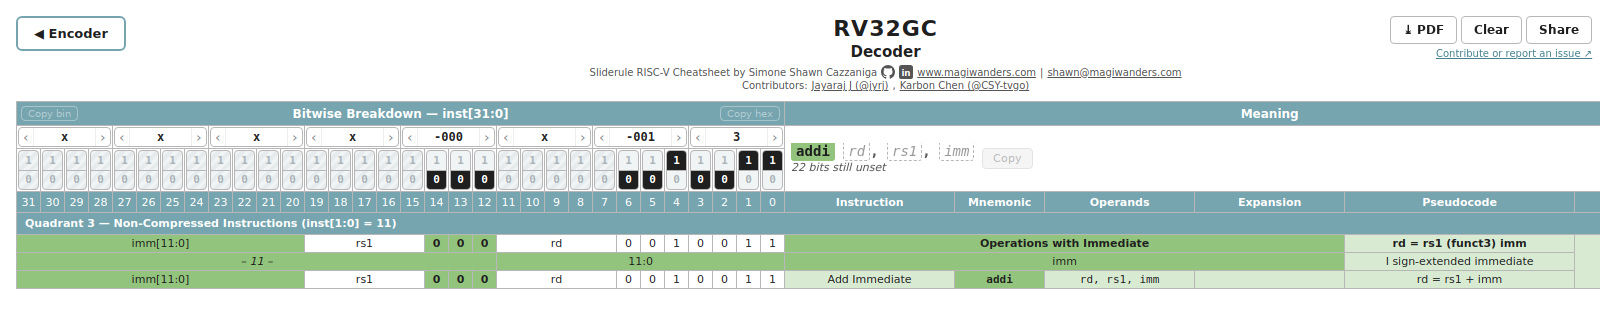
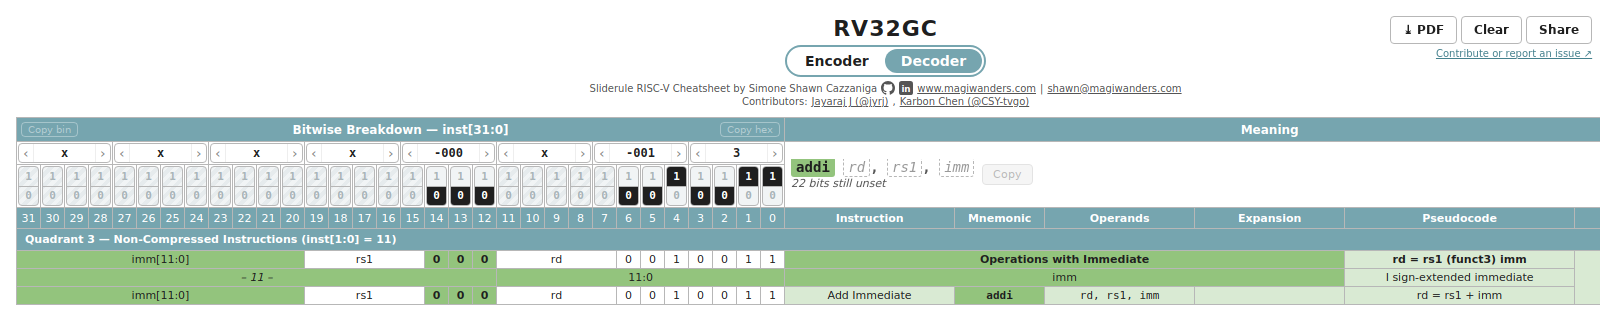
Encoder / Decoder pill under the title instead of corner buttons

diff --git a/public/styles.css b/public/styles.css
@@ -80,7 +80,6 @@ table.sliderule {
 
 .title-main { text-align: center; }
 .title-isa { font-size: 22px; font-weight: bold; letter-spacing: 1px; }
-.title-name { font-size: 15px; font-weight: bold; margin-top: 2px; }
 .title-credits { display: flex; align-items: center; justify-content: center; gap: 4px; font-size: 10px; font-weight: normal; color: #555; margin-top: 4px; }
 .title-credits a { color: inherit; }
 .title-contributors { margin-top: 1px; }
@@ -96,28 +95,30 @@ table.sliderule {
 .title-corner { display: flex; }
 .title-corner.right { justify-content: flex-end; text-align: right; }
 
-.mode-button {
-  position: sticky;
-  left: 8px;
-  right: 8px;
-  padding: 8px 16px;
+/* Encoder / Decoder pill under the big title. */
+.mode-pill {
+  display: inline-flex;
+  margin-top: 4px;
+  padding: 2px;
   border: 2px solid var(--section);
-  border-radius: 6px;
+  border-radius: 999px;
   background: var(--page);
+}
+
+.mode-segment {
+  padding: 4px 16px;
+  border: none;
+  border-radius: 999px;
+  background: transparent;
   color: var(--text);
-  font: bold 13px Arial, Helvetica, sans-serif;
-  text-decoration: none;
+  font: bold 14px Arial, Helvetica, sans-serif;
   cursor: pointer;
   transition: background 0.15s, color 0.15s;
 }
 
-.mode-button:hover,
-.mode-button:focus-visible {
-  background: var(--section);
-  color: #fff;
-  outline: none;
-}
-
+.mode-segment.selected { background: var(--section); color: #fff; cursor: default; }
+.mode-segment:not(.selected):hover,
+.mode-segment:not(.selected):focus-visible { background: #e3eef0; outline: none; }
 
 .sliderule .label-row th {
   background: var(--section);
@@ -392,7 +393,7 @@ table.sliderule {
 .instruction-row.chosen .bit.field-reg { font-weight: bold; }
 
 @media (prefers-reduced-motion: reduce) {
-  .tri-half, .mode-button { transition: none; }
+  .tri-half, .mode-segment { transition: none; }
 }
 
 /* Format hues: same palette as the A3 sheet. R4 does not appear on paper: it gets its own tan. */
